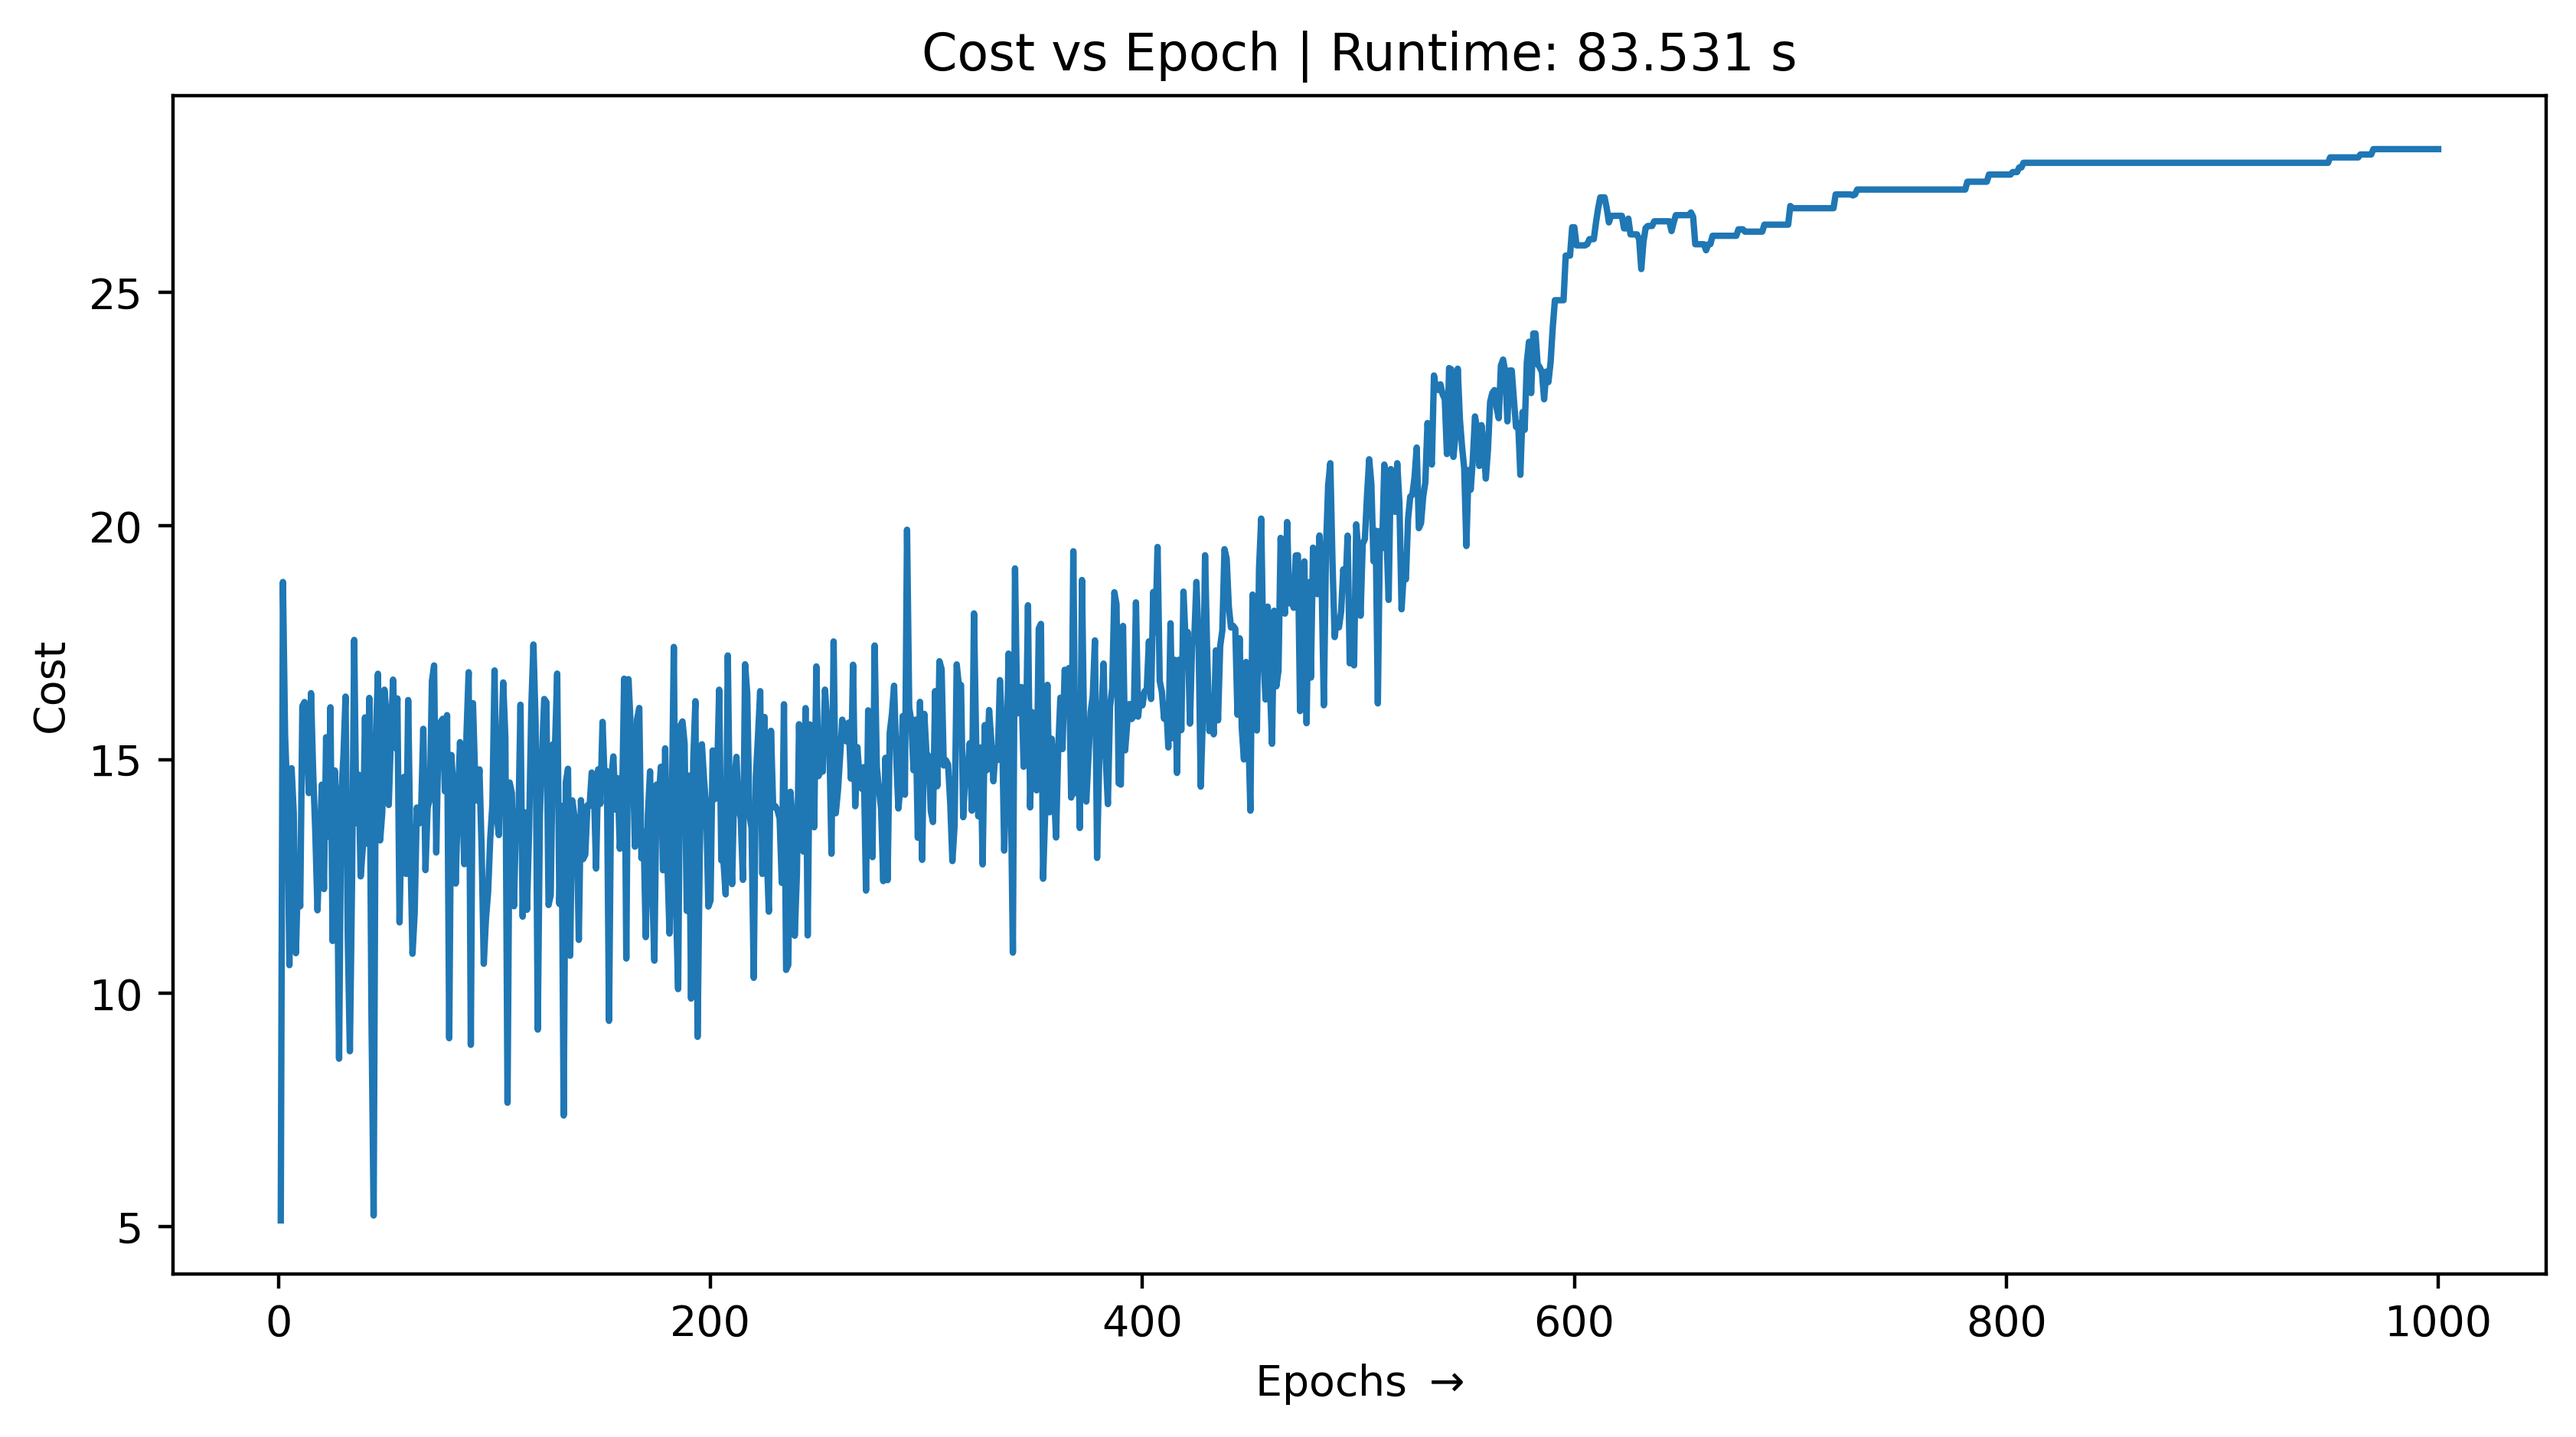
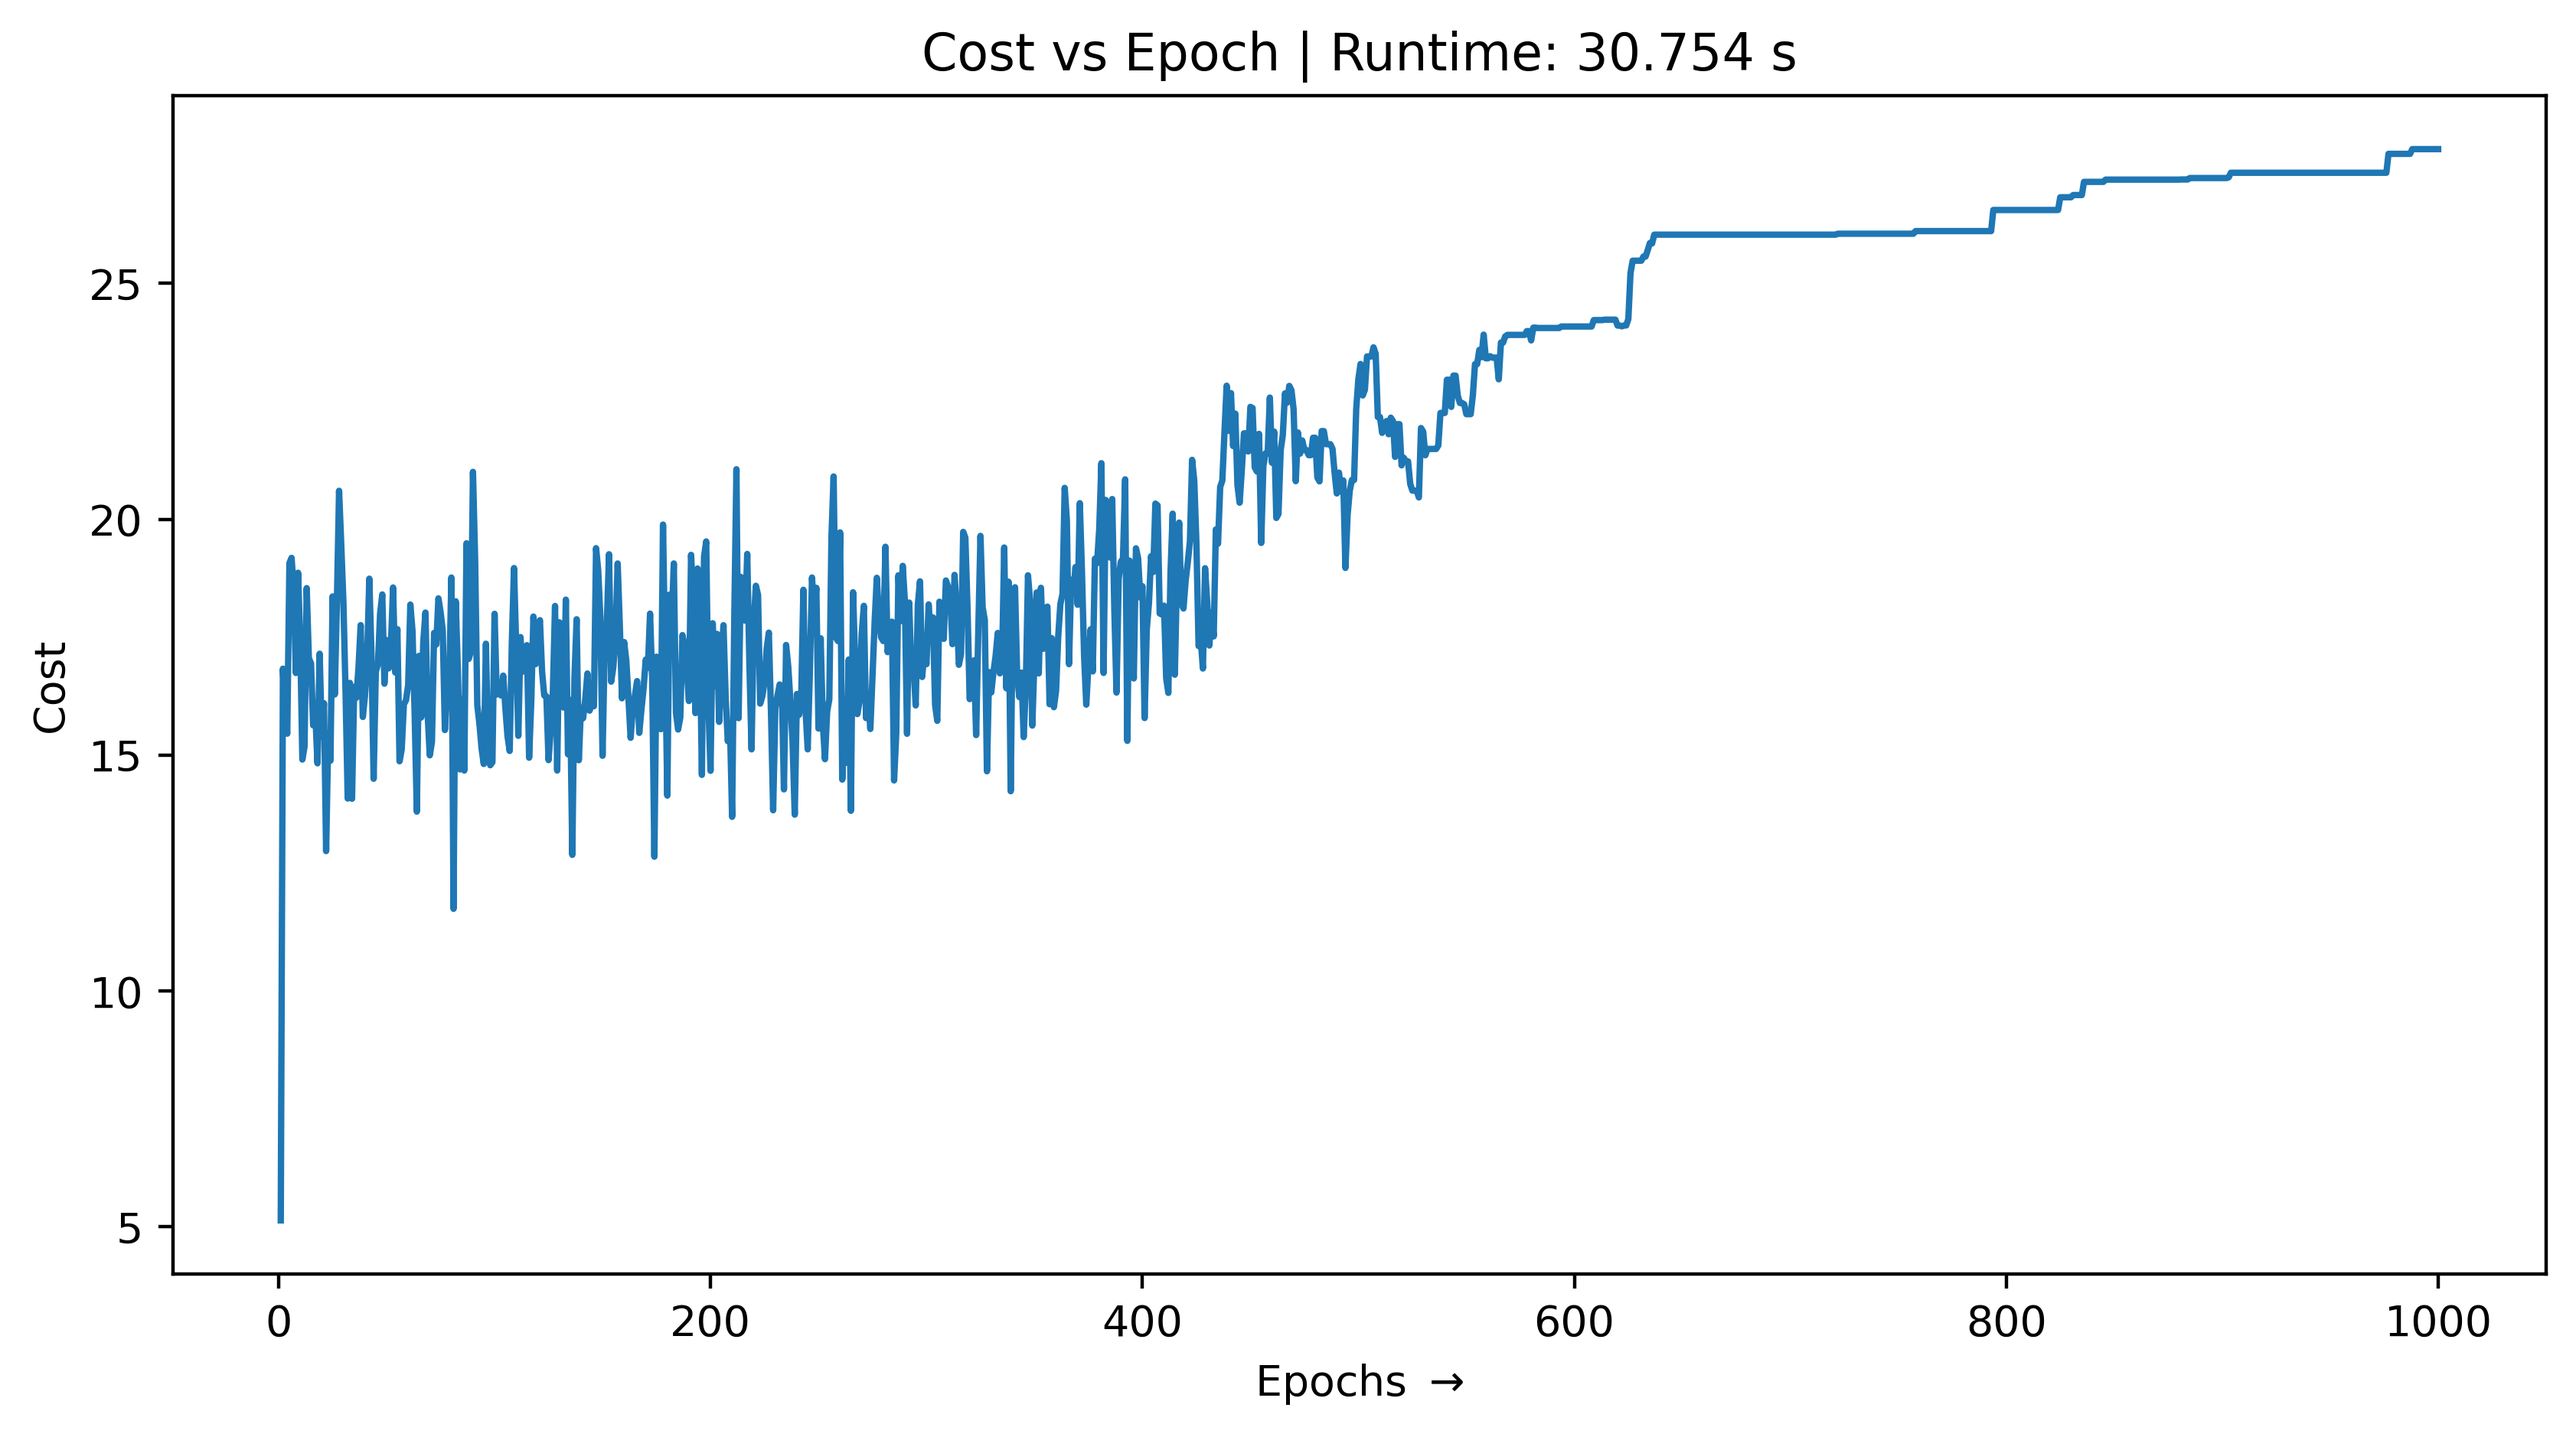
Added probabilty as input to Modify Nodes Function

diff --git a/code/simulated_annealing/complex_simulated_annealing.py b/code/simulated_annealing/complex_simulated_annealing.py
@@ -64,6 +64,10 @@ def cli_parser():
         default=100, help='Number of iterations per epoch'
     )
     parser.add_argument(
+        '--k', action='store', dest='k', type=float,
+        default=0.6, help='Probability of increasing the exhibits visited'
+    )
+    parser.add_argument(
         '-s', action='store_true', dest='SAVE',
         help='If true, stores any generated plots and the summary data'
     )
@@ -402,7 +406,7 @@ class ComplexSimulatedAnnealing:
 
     def __init__(
         self, func0, check_constraints, coords, x0, loc_bar, velocity, T_max,
-        S, T0, alpha, epochs, N_per_epochs, delta, output_dir,
+        S, T0, alpha, epochs, N_per_epochs, delta, k, output_dir,
         cooling_func='simp', ext='', **kwargs
     ):
         '''
@@ -434,6 +438,8 @@ class ComplexSimulatedAnnealing:
                 Number of iterations per epoch
             delta: (int)
                 Number of iterations after which solution is shaken
+            k: (float)
+                Between (0-1), Probabilty that the number of exhibits visited increases
             output_dir: (string)
                 Absolute path of the output directory
             cooling_func: (string), default=simple
@@ -464,6 +470,7 @@ class ComplexSimulatedAnnealing:
         self.epochs = epochs
         self.N_per_epochs = N_per_epochs
         self.delta = delta
+        self.k = k
         self.ext = ext
 
         # Cooling function
@@ -610,7 +617,7 @@ class ComplexSimulatedAnnealing:
         return x0
 
     @staticmethod
-    def modify_nodes(x, loc_bar):
+    def modify_nodes(x, loc_bar, k):
         '''
             Increases or decreases the exhibits visited
 
@@ -621,6 +628,8 @@ class ComplexSimulatedAnnealing:
             loc_bar: (int)
                 Location of bar, Indicating the number of exhibits being
                 visited
+            k: (float)
+                Probabilty that the location of bar increases
             Returns:
             --------
             New location of bar
@@ -630,7 +639,7 @@ class ComplexSimulatedAnnealing:
         elif(loc_bar == len(x)):
             loc_bar -= 1
         else:
-            if(np.random.random() < 0.6):
+            if(np.random.random() < k):
                 loc_bar += 1
             else:
                 loc_bar -= 1
@@ -656,6 +665,7 @@ class ComplexSimulatedAnnealing:
         T_max = self.T_max
         S = self.S
         T = self.T0
+        k = self.k
         cost = self.func0(x[:loc_bar], S)
 
         apply_swap = ComplexSimulatedAnnealing.apply_swap
@@ -690,7 +700,7 @@ class ComplexSimulatedAnnealing:
             T = self.cooling_func(T, epoch)
 
             for iterator in range(self.N_per_epochs):
-                loc_bar_new = modify_nodes(x, loc_bar)
+                loc_bar_new = modify_nodes(x, loc_bar,k)
                 x_new = apply_shake(x, loc_bar_new)
                 cost_new = self.func0(x_new[:loc_bar_new], S)
 
@@ -855,7 +865,7 @@ if __name__ == '__main__':
     output_dir = make_output_dir(args.output_dir)
 
     # Generate random coordinates, initial solution that satifies constraints
-    velocity, T_max, delta = args.vel, args.T_max, args.delta
+    velocity, T_max, delta, k = args.vel, args.T_max, args.delta, args.k
 
     initial_coords = Coordinate.random_coordinates_list(50, seed=0)
 
@@ -874,8 +884,9 @@ if __name__ == '__main__':
         loc_bar = np.random.randint(1, len(initial_solution))
 
     # Set-up parameters for the Simulated Annealing Algorithm
-    T0, alpha = args.T, args.alpha
+    T0, alpha, k = args.T, args.alpha, args.k
     epochs, N_per_epochs = args.epochs, args.N_per_epochs
+
     SAVE, ext = args.SAVE, args.ext
     cfunc = args.cfunc
 
@@ -894,6 +905,7 @@ if __name__ == '__main__':
         epochs=epochs,
         N_per_epochs=N_per_epochs,
         delta=delta,
+        k=k,
         ext=ext,
         output_dir=output_dir
     )
